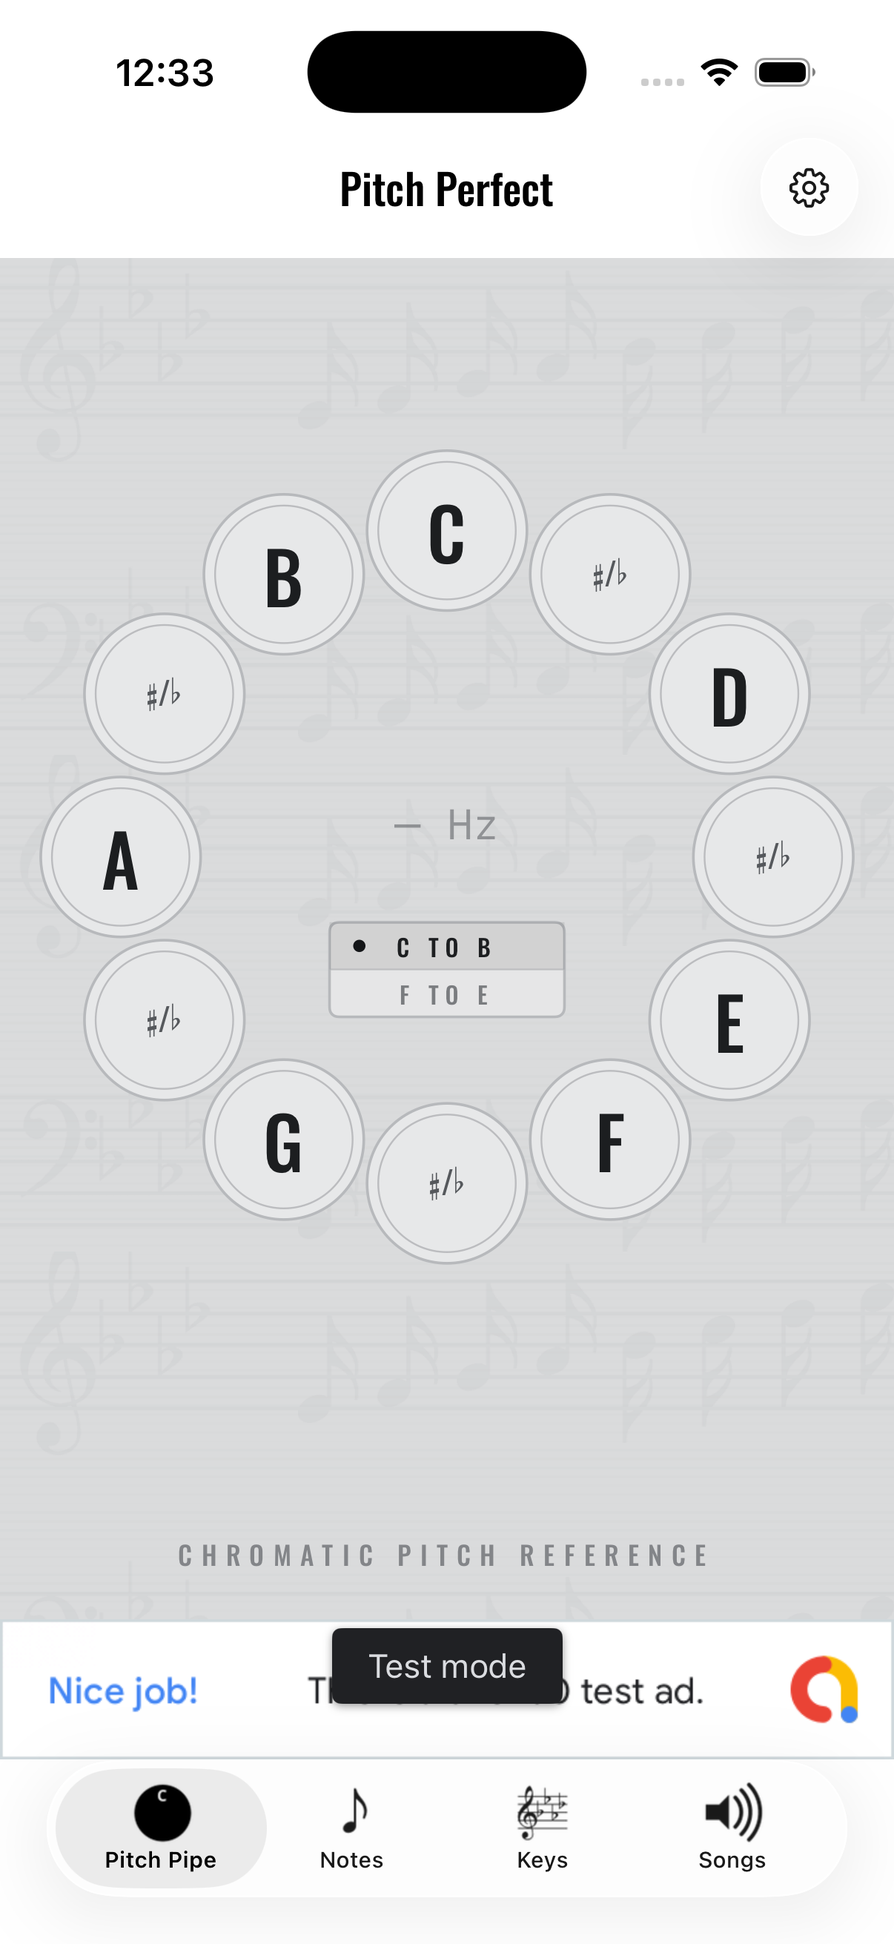
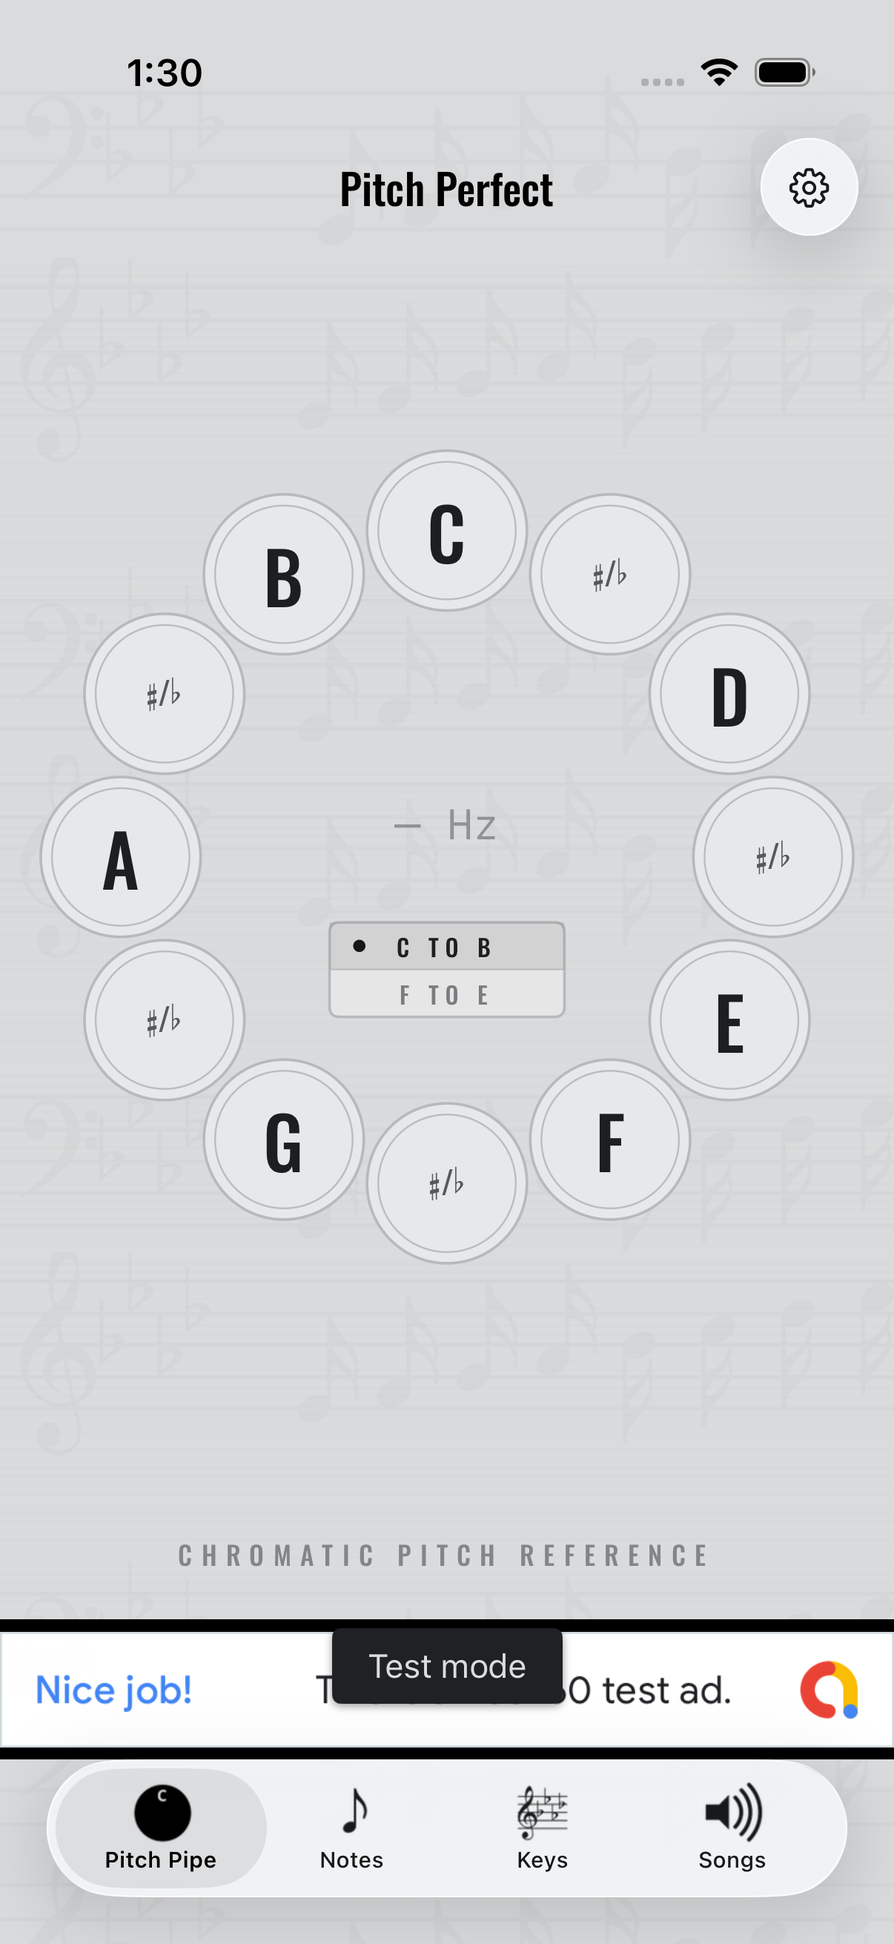
iOS: run score beneath Liquid Glass chrome

Changed region(s): [[0.0, 0.0, 1.0, 0.1545], [0.0, 0.8341, 1.0, 1.0]]

diff --git a/iOS/pitchperfect/pitchperfect/DPCommon.swift b/iOS/pitchperfect/pitchperfect/DPCommon.swift
@@ -21,19 +21,13 @@ import Foundation
     }
     
     @objc public static func configureInstrumentChrome(_ navigationController: UINavigationController) {
-        // Glass material (never fully transparent) with the Oswald title:
-        // the bar stays visible over the score background without giving up
-        // the Liquid Glass look.
-        let appearance = UINavigationBarAppearance()
-        appearance.configureWithDefaultBackground()
-        appearance.titleTextAttributes = [
+        // Leave the Liquid Glass background untouched; only the Oswald title
+        // and label tint ride on top via the legacy attributes.
+        navigationController.navigationBar.titleTextAttributes = [
             .foregroundColor: UIColor.label,
             .font: UIFont(name: "Oswald-Medium", size: 19)
                 ?? UIFont.preferredFont(forTextStyle: .headline),
         ]
-        navigationController.navigationBar.standardAppearance = appearance
-        navigationController.navigationBar.scrollEdgeAppearance = appearance
-        navigationController.navigationBar.compactAppearance = appearance
         navigationController.navigationBar.tintColor = .label
     }
 

diff --git a/iOS/pitchperfect/pitchperfectUITests/DesignTourUITests.swift b/iOS/pitchperfect/pitchperfectUITests/DesignTourUITests.swift
@@ -1,0 +1,41 @@
+//
+//  DesignTourUITests.swift
+//  pitchperfectUITests
+//
+//  Captures every screen for design review evidence.
+//
+
+import XCTest
+
+final class DesignTourUITests: XCTestCase {
+    func testCaptureEveryScreen() throws {
+        let app = XCUIApplication()
+        app.launchArguments = ["--uitesting"]
+        app.launch()
+
+        func snap(_ name: String) {
+            let attachment = XCTAttachment(screenshot: app.screenshot())
+            attachment.name = name
+            attachment.lifetime = .keepAlways
+            add(attachment)
+        }
+
+        snap("tour-pipe")
+        for tab in ["Notes", "Keys", "Songs"] {
+            let button = app.tabBars.buttons[tab]
+            if button.waitForExistence(timeout: 5) {
+                button.tap()
+                sleep(1)
+                snap("tour-\(tab.lowercased())")
+            }
+        }
+        app.tabBars.buttons["Pitch Pipe"].tap()
+        sleep(1)
+        let gear = app.navigationBars.buttons.firstMatch
+        if gear.waitForExistence(timeout: 5) {
+            gear.tap()
+            sleep(1)
+            snap("tour-settings")
+        }
+    }
+}

diff --git a/iOS/pitchperfect/pitchperfect/DPPitchPipeViewController.m b/iOS/pitchperfect/pitchperfect/DPPitchPipeViewController.m
@@ -65,11 +65,18 @@
     bannerView.rootViewController = self;
     bannerView.delegate = (id<GADBannerViewDelegate>)UIApplication.sharedApplication.delegate;
     
-    UIView *background = [[UIView alloc] init];
+    UIScrollView *background = [[UIScrollView alloc] init];
+    background.scrollEnabled = NO;
     background.backgroundColor = [DPTheme staffBackgroundColor];
     [self.view setBackgroundColor:DPTheme.plateGround];
     background.translatesAutoresizingMaskIntoConstraints = NO;
     [self.view addSubview:background];
+    // The glass bars sample this full-bleed scroll surface; without it iOS 26
+    // paints an opaque hard edge over non-scrolling content.
+    [self setContentScrollView:background forEdge:NSDirectionalRectEdgeAll];
+    // DPToolbarViewController (shared, pre-safe-area) opts out of extended
+    // layout; Pitch Perfect runs its score surface under the glass bars.
+    self.edgesForExtendedLayout = UIRectEdgeAll;
     [self.view addConstraints:[NSLayoutConstraint constraintsWithVisualFormat:@"H:|[background]|"
                                                                       options:0
                                                                       metrics:nil
@@ -110,12 +117,9 @@
     [self.view addSubview:rootLayout];
     rootLayout.translatesAutoresizingMaskIntoConstraints = NO;
         
-    self.edgesForExtendedLayout = UIRectEdgeNone;
-    
-    [self.view addConstraints:[NSLayoutConstraint constraintsWithVisualFormat:@"V:|[rootLayout]"
-                                                                      options:0
-                                                                      metrics:nil
-                                                                        views:NSDictionaryOfVariableBindings(rootLayout)]];
+    // Full-bleed: the score background runs under the glass bars; content
+    // starts at the safe area so nothing hides beneath them.
+    [rootLayout.topAnchor constraintEqualToAnchor:self.view.safeAreaLayoutGuide.topAnchor].active = YES;
     [rootLayout.bottomAnchor constraintEqualToAnchor:self.view.safeAreaLayoutGuide.bottomAnchor].active = YES;
     [rootLayout.leftAnchor constraintEqualToAnchor:self.view.safeAreaLayoutGuide.leftAnchor].active = YES;
     [rootLayout.rightAnchor constraintEqualToAnchor:self.view.safeAreaLayoutGuide.rightAnchor].active = YES;

diff --git a/iOS/pitchperfect/pitchperfect/DPLoginViewController.m b/iOS/pitchperfect/pitchperfect/DPLoginViewController.m
@@ -46,10 +46,17 @@
     
     // Do any additional setup after loading the view, typically from a nib.
     self.view.backgroundColor = [UIColor systemBackgroundColor];
-    UIView *background = [[UIView alloc] init];
+    UIScrollView *background = [[UIScrollView alloc] init];
+    background.scrollEnabled = NO;
     background.backgroundColor = [DPTheme staffBackgroundColor];
     background.translatesAutoresizingMaskIntoConstraints = NO;
     [self.view addSubview:background];
+    // The glass bars sample this full-bleed scroll surface; without it iOS 26
+    // paints an opaque hard edge over non-scrolling content.
+    [self setContentScrollView:background forEdge:NSDirectionalRectEdgeAll];
+    // DPToolbarViewController (shared, pre-safe-area) opts out of extended
+    // layout; Pitch Perfect runs its score surface under the glass bars.
+    self.edgesForExtendedLayout = UIRectEdgeAll;
     [self.view addConstraints:[NSLayoutConstraint constraintsWithVisualFormat:@"H:|[background]|"
                                                                       options:0
                                                                       metrics:nil
@@ -115,12 +122,9 @@
     [self.view addSubview:rootLayout];
     rootLayout.translatesAutoresizingMaskIntoConstraints = NO;
         
-    self.edgesForExtendedLayout = UIRectEdgeNone;
-    
-    [self.view addConstraints:[NSLayoutConstraint constraintsWithVisualFormat:@"V:|[rootLayout]"
-                                                                      options:0
-                                                                      metrics:nil
-                                                                        views:NSDictionaryOfVariableBindings(rootLayout)]];
+    // Full-bleed: the score background runs under the glass bars; content
+    // starts at the safe area so nothing hides beneath them.
+    [rootLayout.topAnchor constraintEqualToAnchor:self.view.safeAreaLayoutGuide.topAnchor].active = YES;
     [rootLayout.bottomAnchor constraintEqualToAnchor:self.view.safeAreaLayoutGuide.bottomAnchor].active = YES;
     [rootLayout.leftAnchor constraintEqualToAnchor:self.view.safeAreaLayoutGuide.leftAnchor].active = YES;
     [rootLayout.rightAnchor constraintEqualToAnchor:self.view.safeAreaLayoutGuide.rightAnchor].active = YES;

diff --git a/iOS/pitchperfect/pitchperfect/DPSettingsViewController.m b/iOS/pitchperfect/pitchperfect/DPSettingsViewController.m
@@ -76,11 +76,18 @@
     bannerView.rootViewController = self;
     bannerView.delegate = (id<GADBannerViewDelegate>)UIApplication.sharedApplication.delegate;
     
-    UIView *background = [[UIView alloc] init];
+    UIScrollView *background = [[UIScrollView alloc] init];
+    background.scrollEnabled = NO;
     background.backgroundColor = [DPTheme staffBackgroundColor];
     [self.view setBackgroundColor:[UIColor systemBackgroundColor]];
     background.translatesAutoresizingMaskIntoConstraints = NO;
     [self.view addSubview:background];
+    // The glass bars sample this full-bleed scroll surface; without it iOS 26
+    // paints an opaque hard edge over non-scrolling content.
+    [self setContentScrollView:background forEdge:NSDirectionalRectEdgeAll];
+    // DPToolbarViewController (shared, pre-safe-area) opts out of extended
+    // layout; Pitch Perfect runs its score surface under the glass bars.
+    self.edgesForExtendedLayout = UIRectEdgeAll;
     [self.view addConstraints:[NSLayoutConstraint constraintsWithVisualFormat:@"H:|[background]|"
                                                                       options:0
                                                                       metrics:nil
@@ -119,12 +126,9 @@
     
     [self.view addSubview:rootLayout];
         
-    self.edgesForExtendedLayout = UIRectEdgeNone;
-    
-    [self.view addConstraints:[NSLayoutConstraint constraintsWithVisualFormat:@"V:|[rootLayout]"
-                                                                      options:0
-                                                                      metrics:nil
-                                                                        views:NSDictionaryOfVariableBindings(rootLayout)]];
+    // Full-bleed: the score background runs under the glass bars; content
+    // starts at the safe area so nothing hides beneath them.
+    [rootLayout.topAnchor constraintEqualToAnchor:self.view.safeAreaLayoutGuide.topAnchor].active = YES;
     [rootLayout.bottomAnchor constraintEqualToAnchor:self.view.safeAreaLayoutGuide.bottomAnchor].active = YES;
     [self.view addConstraints:[NSLayoutConstraint constraintsWithVisualFormat:@"H:|[rootLayout]|"
                                                                       options:0

diff --git a/iOS/pitchperfect/pitchperfect/DPKeysViewController.m b/iOS/pitchperfect/pitchperfect/DPKeysViewController.m
@@ -178,11 +178,18 @@
     
     [rootLayout addSubview:bannerView row:1 column:0];
     
-    UIView *background = [[UIView alloc] init];
+    UIScrollView *background = [[UIScrollView alloc] init];
+    background.scrollEnabled = NO;
     background.backgroundColor = [DPTheme staffBackgroundColor];
     [self.view setBackgroundColor:[UIColor systemBackgroundColor]];
     background.translatesAutoresizingMaskIntoConstraints = NO;
     [self.view addSubview:background];
+    // The glass bars sample this full-bleed scroll surface; without it iOS 26
+    // paints an opaque hard edge over non-scrolling content.
+    [self setContentScrollView:background forEdge:NSDirectionalRectEdgeAll];
+    // DPToolbarViewController (shared, pre-safe-area) opts out of extended
+    // layout; Pitch Perfect runs its score surface under the glass bars.
+    self.edgesForExtendedLayout = UIRectEdgeAll;
     [self.view addConstraints:[NSLayoutConstraint constraintsWithVisualFormat:@"H:|[background]|"
                                                                       options:0
                                                                       metrics:nil
@@ -235,12 +242,9 @@
     
     [self.view addSubview:rootLayout];
         
-    self.edgesForExtendedLayout = UIRectEdgeNone;
-    
-    [self.view addConstraints:[NSLayoutConstraint constraintsWithVisualFormat:@"V:|[rootLayout]"
-                                                                      options:0
-                                                                      metrics:nil
-                                                                        views:NSDictionaryOfVariableBindings(rootLayout)]];
+    // Full-bleed: the score background runs under the glass bars; content
+    // starts at the safe area so nothing hides beneath them.
+    [rootLayout.topAnchor constraintEqualToAnchor:self.view.safeAreaLayoutGuide.topAnchor].active = YES;
     [rootLayout.bottomAnchor constraintEqualToAnchor:self.view.safeAreaLayoutGuide.bottomAnchor].active = YES;
     [self.view addConstraints:[NSLayoutConstraint constraintsWithVisualFormat:@"H:|[rootLayout]|"
                                                                       options:0

diff --git a/iOS/pitchperfect/pitchperfect/DPNotesViewController.m b/iOS/pitchperfect/pitchperfect/DPNotesViewController.m
@@ -162,11 +162,18 @@
     
     [rootLayout addSubview:bannerView row:1 column:0];
     
-    UIView *background = [[UIView alloc] init];
+    UIScrollView *background = [[UIScrollView alloc] init];
+    background.scrollEnabled = NO;
     background.backgroundColor = [DPTheme staffBackgroundColor];
     [self.view setBackgroundColor:[UIColor systemBackgroundColor]];
     background.translatesAutoresizingMaskIntoConstraints = NO;
     [self.view addSubview:background];
+    // The glass bars sample this full-bleed scroll surface; without it iOS 26
+    // paints an opaque hard edge over non-scrolling content.
+    [self setContentScrollView:background forEdge:NSDirectionalRectEdgeAll];
+    // DPToolbarViewController (shared, pre-safe-area) opts out of extended
+    // layout; Pitch Perfect runs its score surface under the glass bars.
+    self.edgesForExtendedLayout = UIRectEdgeAll;
     [self.view addConstraints:[NSLayoutConstraint constraintsWithVisualFormat:@"H:|[background]|"
                                                                       options:0
                                                                       metrics:nil
@@ -200,12 +207,9 @@
     
     [self.view addSubview:rootLayout];
         
-    self.edgesForExtendedLayout = UIRectEdgeNone;
-    
-    [self.view addConstraints:[NSLayoutConstraint constraintsWithVisualFormat:@"V:|[rootLayout]"
-                                                                      options:0
-                                                                      metrics:nil
-                                                                        views:NSDictionaryOfVariableBindings(rootLayout)]];
+    // Full-bleed: the score background runs under the glass bars; content
+    // starts at the safe area so nothing hides beneath them.
+    [rootLayout.topAnchor constraintEqualToAnchor:self.view.safeAreaLayoutGuide.topAnchor].active = YES;
     [rootLayout.bottomAnchor constraintEqualToAnchor:self.view.safeAreaLayoutGuide.bottomAnchor].active = YES;
     [self.view addConstraints:[NSLayoutConstraint constraintsWithVisualFormat:@"H:|[rootLayout]|"
                                                                       options:0

diff --git a/iOS/pitchperfect/pitchperfect/DPSongListViewController.m b/iOS/pitchperfect/pitchperfect/DPSongListViewController.m
@@ -158,11 +158,18 @@
     
     [rootLayout addSubview:bannerView row:1 column:0];
     
-    UIView *background = [[UIView alloc] init];
+    UIScrollView *background = [[UIScrollView alloc] init];
+    background.scrollEnabled = NO;
     background.backgroundColor = [DPTheme staffBackgroundColor];
     [self.view setBackgroundColor:[UIColor systemBackgroundColor]];
     background.translatesAutoresizingMaskIntoConstraints = NO;
     [self.view addSubview:background];
+    // The glass bars sample this full-bleed scroll surface; without it iOS 26
+    // paints an opaque hard edge over non-scrolling content.
+    [self setContentScrollView:background forEdge:NSDirectionalRectEdgeAll];
+    // DPToolbarViewController (shared, pre-safe-area) opts out of extended
+    // layout; Pitch Perfect runs its score surface under the glass bars.
+    self.edgesForExtendedLayout = UIRectEdgeAll;
     [self.view addConstraints:[NSLayoutConstraint constraintsWithVisualFormat:@"H:|[background]|"
                                                                       options:0
                                                                       metrics:nil
@@ -214,12 +221,9 @@
     
     [self.view addSubview:rootLayout];
     
-    self.edgesForExtendedLayout = UIRectEdgeNone;
-    
-    [self.view addConstraints:[NSLayoutConstraint constraintsWithVisualFormat:@"V:|[rootLayout]"
-                                                                      options:0
-                                                                      metrics:nil
-                                                                        views:NSDictionaryOfVariableBindings(rootLayout)]];
+    // Full-bleed: the score background runs under the glass bars; content
+    // starts at the safe area so nothing hides beneath them.
+    [rootLayout.topAnchor constraintEqualToAnchor:self.view.safeAreaLayoutGuide.topAnchor].active = YES;
     [rootLayout.bottomAnchor constraintEqualToAnchor:self.view.safeAreaLayoutGuide.bottomAnchor].active = YES;
     [self.view addConstraints:[NSLayoutConstraint constraintsWithVisualFormat:@"H:|[rootLayout]|"
                                                                       options:0

diff --git a/iOS/pitchperfect/pitchperfect/DPSongEditorViewController.m b/iOS/pitchperfect/pitchperfect/DPSongEditorViewController.m
@@ -72,11 +72,18 @@
     [keys addObjectsFromArray:[DPKey minorKeys]];
     allKeys = [NSArray arrayWithArray:keys];
     
-    UIView *background = [[UIView alloc] init];
+    UIScrollView *background = [[UIScrollView alloc] init];
+    background.scrollEnabled = NO;
     background.backgroundColor = [DPTheme staffBackgroundColor];
     [self.view setBackgroundColor:[UIColor systemBackgroundColor]];
     background.translatesAutoresizingMaskIntoConstraints = NO;
     [self.view addSubview:background];
+    // The glass bars sample this full-bleed scroll surface; without it iOS 26
+    // paints an opaque hard edge over non-scrolling content.
+    [self setContentScrollView:background forEdge:NSDirectionalRectEdgeAll];
+    // DPToolbarViewController (shared, pre-safe-area) opts out of extended
+    // layout; Pitch Perfect runs its score surface under the glass bars.
+    self.edgesForExtendedLayout = UIRectEdgeAll;
     [self.view addConstraints:[NSLayoutConstraint constraintsWithVisualFormat:@"H:|[background]|"
                                                                       options:0
                                                                       metrics:nil
@@ -156,10 +163,8 @@
                                                                       options:0
                                                                       metrics:nil
                                                                         views:NSDictionaryOfVariableBindings(rootLayout)]];
-    [self.view addConstraints:[NSLayoutConstraint constraintsWithVisualFormat:@"V:|[rootLayout]|"
-                                                                      options:0
-                                                                      metrics:nil
-                                                                        views:NSDictionaryOfVariableBindings(rootLayout)]];
+    [rootLayout.topAnchor constraintEqualToAnchor:self.view.safeAreaLayoutGuide.topAnchor].active = YES;
+    [rootLayout.bottomAnchor constraintEqualToAnchor:self.view.safeAreaLayoutGuide.bottomAnchor].active = YES;
     
 }
 

diff --git a/iOS/pitchperfect/pitchperfect/DPAppDelegate.m b/iOS/pitchperfect/pitchperfect/DPAppDelegate.m
@@ -65,13 +65,12 @@
     }
     tabBarController.viewControllers = controllers;
 
-    // Liquid Glass stays on. The tab icons ship as template images so the
-    // glass treatment never morphs or flickers them on first selection, and
-    // the bars keep the system glass material with the Oswald title on top.
-    UINavigationBarAppearance *navigationAppearance = [[UINavigationBarAppearance alloc] init];
-    [navigationAppearance configureWithDefaultBackground];
+    // Liquid Glass owns the bars untouched: no appearance overrides. The tab
+    // icons ship as template images so the glass treatment never morphs or
+    // flickers them, and the Oswald title rides on the legacy attributes,
+    // which leave the glass background alone.
     UIFont *titleFont = [UIFont fontWithName:@"Oswald-Medium" size:19] ?: [UIFont preferredFontForTextStyle:UIFontTextStyleHeadline];
-    navigationAppearance.titleTextAttributes = @{
+    NSDictionary *titleAttributes = @{
         NSForegroundColorAttributeName: UIColor.labelColor,
         NSFontAttributeName: titleFont
     };
@@ -84,9 +83,7 @@
         item.image = templateImage;
         item.selectedImage = templateImage;
 
-        navigationController.navigationBar.standardAppearance = navigationAppearance;
-        navigationController.navigationBar.scrollEdgeAppearance = navigationAppearance;
-        navigationController.navigationBar.compactAppearance = navigationAppearance;
+        navigationController.navigationBar.titleTextAttributes = titleAttributes;
         navigationController.navigationBar.tintColor = UIColor.labelColor;
     }
 }

diff --git a/iOS/pitchperfect/pitchperfect/DPAppDelegate+Ads.m b/iOS/pitchperfect/pitchperfect/DPAppDelegate+Ads.m
@@ -34,7 +34,7 @@
     } else {
         bannerView.adSize = GADPortraitAnchoredAdaptiveBannerAdSizeWithWidth(width);
     }
-    bannerView.backgroundColor = UIColor.systemBackgroundColor;
+    bannerView.backgroundColor = UIColor.clearColor;
     bannerView.clipsToBounds = YES;
     [bannerView loadRequest:[self adRequest]];
 }

diff --git a/DESIGN.md b/DESIGN.md
@@ -169,7 +169,7 @@ Machined-part geometry. Circles for cells and indicator dots; near-square 2dp co
 
 ### Navigation
 
-- Platform-native chrome in plate colors. Android: Material `BottomNavigationView` on the primary-surface (ink-bar) with selector tints (#F2F3F4 checked / #9AA0A6 unchecked). iOS keeps the iOS 26 Liquid Glass tab and navigation bars; the tab icons ship as grayscale template images (label tint) so the glass treatment never morphs or flickers them, and bars use the default glass material — never fully transparent — with the Oswald title. Android system bars match `plate-ink-bar`.
+- Platform-native chrome in plate colors. Android: Material `BottomNavigationView` on the primary-surface (ink-bar) with selector tints (#F2F3F4 checked / #9AA0A6 unchecked). iOS keeps the iOS 26 Liquid Glass tab and navigation bars; the tab icons ship as grayscale template images (label tint) so the glass treatment never morphs or flickers them. The score surface extends under both bars and the system glass samples it directly; only title typography and tint are overridden. Android system bars match `plate-ink-bar`.
 
 ### Ad Slot
 
@@ -192,7 +192,7 @@ Machined-part geometry. Circles for cells and indicator dots; near-square 2dp co
 - **Do** set measured values (Hz, keys, octaves) in monospace and labels in condensed caps with wide tracking.
 - **Do** build structure from 1–1.5px hairlines and tone shifts; keep corners at 2dp (5px for machined frames).
 - **Do** mirror instrument tokens and geometry exactly across platforms while keeping nav/tab/bar chrome native.
-- **Do** tile the original score artwork edge-to-edge as a low-contrast background on every screen. Use translucent plate rows so the score remains continuous without competing with text.
+- **Do** tile the original score artwork edge-to-edge, including beneath iOS navigation and tab bars. Keep list rows transparent so the score remains continuous without competing with text.
 - **Do** honor reduce-motion settings by stopping the breath entirely, and give every custom-drawn control a virtualized accessibility element with a full spoken note name.
 
 ### Don't
